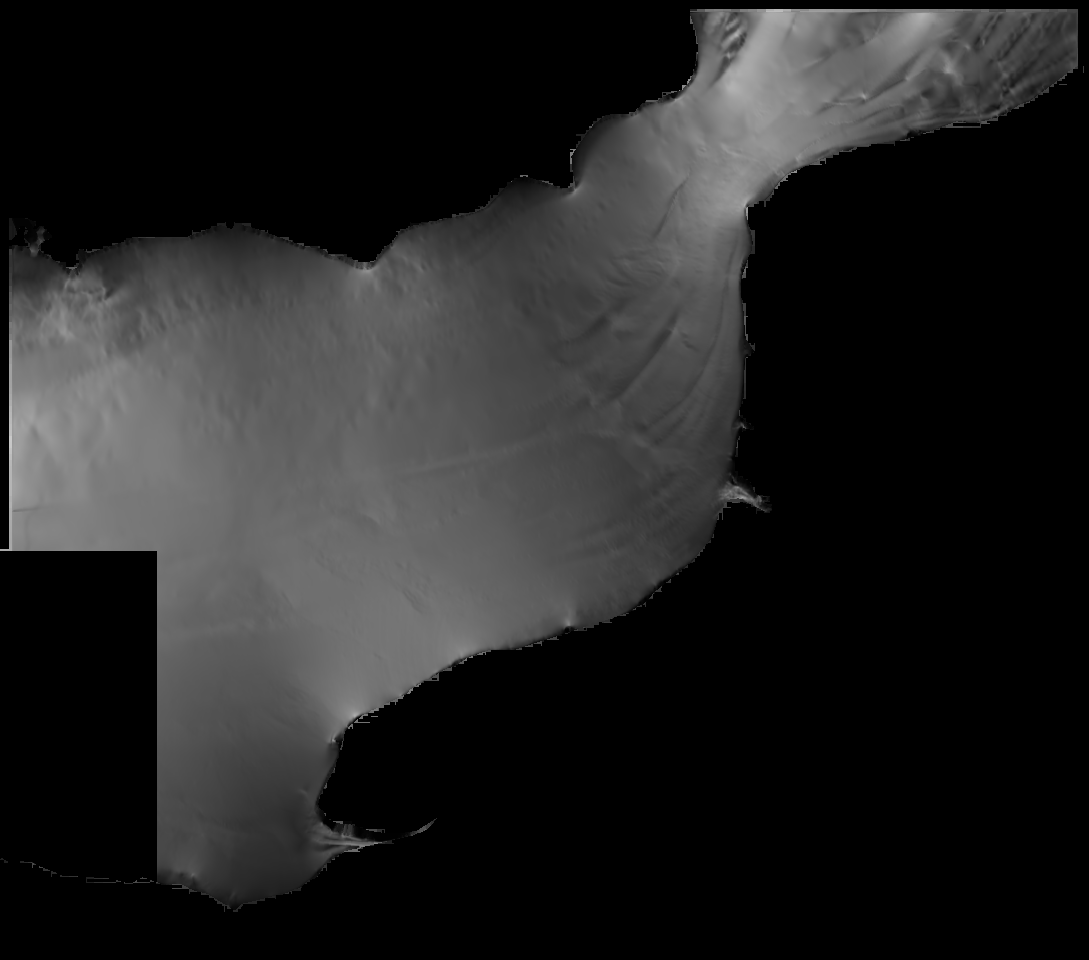
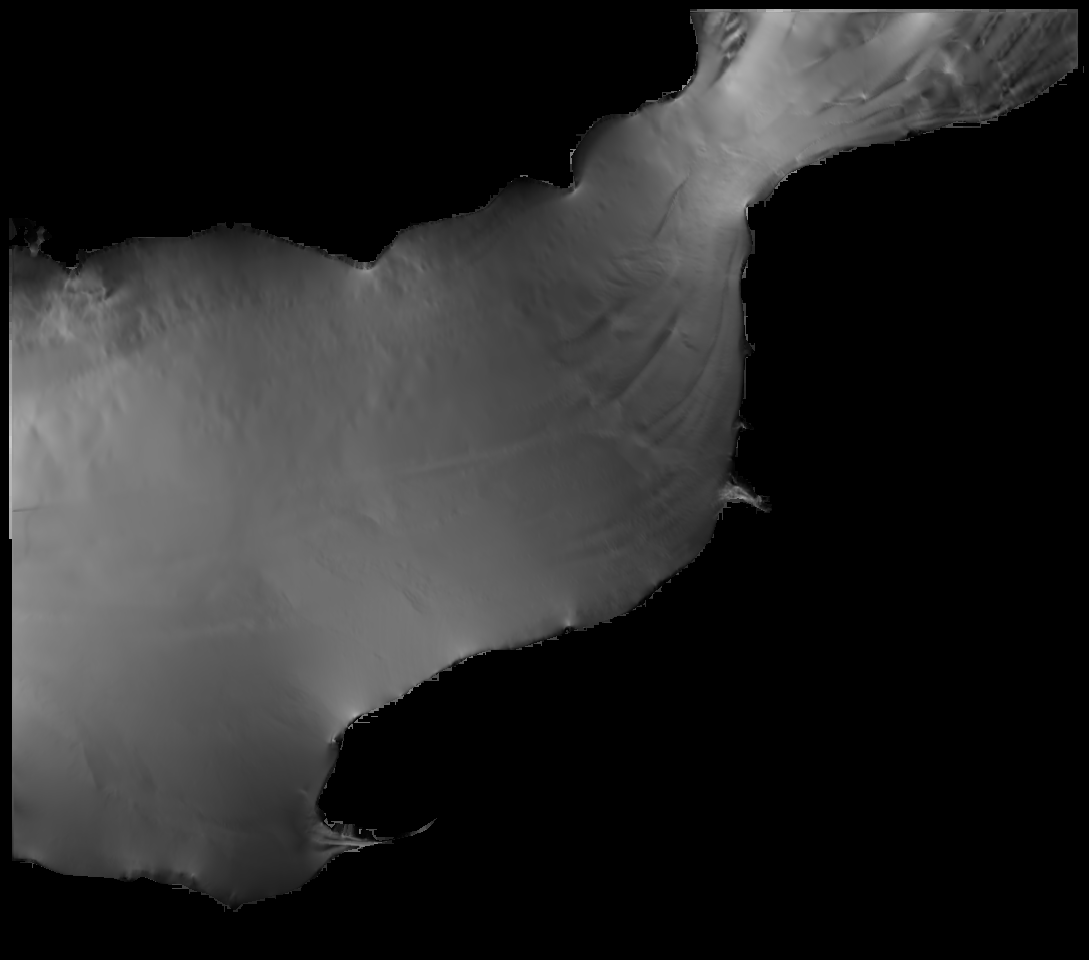
fix: retours de la recette J14, la carte montre exactement ce que le serveur sert, la Rance jusqu'au Châtelier, deux défauts web (#458)
Politique de service appliquée dans la mosaïque des rasters ; atlas sans cellules faibles limités à une maille ; fenêtre de marée alignée sur les rasters ; explain unknown_zone ; couloir de la Rance retracé ; option {n} et décimales de /comparer ; parcours J14 et guide de recette à jour.

Changed region(s): [[0.0, 0.5625, 0.1561, 0.9375]]

diff --git a/packages/web/src/compare/CompareTable.tsx b/packages/web/src/compare/CompareTable.tsx
@@ -8,6 +8,7 @@ import { useTimezone } from "../hooks/useTimezone";
 import { getLocale, t, tn, useLang, useT } from "../i18n";
 import { fmtNm } from "../utils/geo";
 import { formatHour } from "../utils/format";
+import { num1 } from "../plan/format";
 import type { Spot } from "../types";
 import {
   aggregateWaves,
@@ -89,7 +90,7 @@ function windAria(agg: WindAgg, res: Resolution): string {
 }
 
 function waveAria(agg: WaveAgg): string {
-  const hs = agg.hs.toFixed(1);
+  const hs = num1(agg.hs);
   const period = agg.period != null ? Math.round(agg.period) : "–";
   return agg.dir != null
     ? t("compare.cell.aria.waveFrom", { hs, dir: agg.dir, period })
@@ -157,7 +158,7 @@ function CellImpl({ wind, wave, withWave, res, width, dense }: CellProps) {
             <Band
               bg={`var(--ow-wave-${wl})`}
               ink={wave.hs < 1.0 ? "var(--ow-fg-0)" : "var(--ow-cell-ink)"}
-              main={wave.hs.toFixed(1)}
+              main={num1(wave.hs)}
               sub={wave.period != null ? `${Math.round(wave.period)}s` : undefined}
               height={add}
               dense={dense}

diff --git a/packages/web/src/plan/compare/TrackList.tsx b/packages/web/src/plan/compare/TrackList.tsx
@@ -94,8 +94,8 @@ function TrackRow({
         onClick={onSelect}
         disabled={!usable}
         aria-pressed={selected}
-        aria-label={`${name} · ${t("panel.tracks.row.select")}`}
-        title={t("panel.tracks.row.select")}
+        aria-label={`${name} · ${t("panel.tracks.row.select", { n: index + 1 })}`}
+        title={t("panel.tracks.row.select", { n: index + 1 })}
         onFocus={() => onPoint(true)}
         onBlur={() => onPoint(false)}
         className="flex-1 min-w-0 text-left flex flex-col gap-1 pl-4 pr-2 pt-2.5 pb-2.5 disabled:cursor-default"

diff --git a/packages/web/src/routes/TidalSourcesMap.tsx b/packages/web/src/routes/TidalSourcesMap.tsx
@@ -210,7 +210,7 @@ type ExplainAtlas = {
   label: string;
   rank: number;
   resolution_m: number;
-  decision: "used" | "dead_water" | "lower_priority" | "weak_tide" | "excluded" | "no_cell" | "outside_validity";
+  decision: "used" | "dead_water" | "unknown_zone" | "lower_priority" | "weak_tide" | "excluded" | "no_cell" | "outside_validity";
   max_tide_kt?: number;
   box?: string;
 };

diff --git a/scripts/build_tidal_world_raster.py b/scripts/build_tidal_world_raster.py
@@ -115,6 +115,7 @@ def atlas_grid(
     lon0 -= k * dlon
     rows = lat0 + dlat * np.arange(arr.shape[0])
     cols = lon0 + dlon * np.arange(arr.shape[1])
+    arr = _apply_serving_policy(meta, rows, cols, arr)
     vb = meta.get("validity_bbox")
     if vb:
         # The runtime refuses the atlas outside its validity box (ATLNE in
@@ -123,6 +124,39 @@ def atlas_grid(
         lon_ok = (cols >= vb[1]) & (cols <= vb[3])
         arr = np.where(lat_ok[:, None] & lon_ok[None, :], arr, np.nan)
     return meta, rows, cols, arr
+
+
+def _apply_serving_policy(meta: dict, rows: np.ndarray, cols: np.ndarray, arr: np.ndarray) -> np.ndarray:
+    """Blank the cells the runtime does not use, so they do not own their pixel.
+
+    The mosaic gives each pixel to the first atlas of the cascade that has a
+    cell there. A cell the server passes on (an open-sea atlas under
+    ``WEAK_TIDE_KT``, dead water of a coastal atlas, a box the policy cuts
+    out) must not hold it: the next atlas speaks there, or nothing, and the
+    map shows what a passage uses (2026-10-11 acceptance run: ATLNE's 0.08 kt
+    cells hid the Copernicus slope the server serves in the deep Bay of
+    Biscay).
+    """
+    from openwind_data.currents.serving_policy import (
+        COASTAL_MIN_RANK,
+        DEAD_CURRENT_M2_MS,
+        EXCLUDED_BOXES,
+        OPEN_SEA_MAX_RANK,
+        WEAK_TIDE_KT,
+    )
+
+    rank = int(meta.get("rank", 0))
+    out = arr.copy()
+    if rank <= OPEN_SEA_MAX_RANK:
+        out[~(out >= WEAK_TIDE_KT)] = np.nan
+    elif rank >= COASTAL_MIN_RANK:
+        # Dead water: an M2 current under 1 cm/s, about 0.02 kt at most.
+        out[~(out >= DEAD_CURRENT_M2_MS * MS_TO_KN)] = np.nan
+    for lat_min, lon_min, lat_max, lon_max in EXCLUDED_BOXES.get(meta.get("atlas", ""), ()):
+        lat_in = (rows >= lat_min) & (rows <= lat_max)
+        lon_in = (cols >= lon_min) & (cols <= lon_max)
+        out[lat_in[:, None] & lon_in[None, :]] = np.nan
+    return out
 
 
 def fill_pinholes(arr: np.ndarray) -> np.ndarray:

diff --git a/packages/data-adapters/src/openwind_data/currents/marc_atlas.py b/packages/data-adapters/src/openwind_data/currents/marc_atlas.py
@@ -200,9 +200,11 @@ def _read_tile(parquet_path: str) -> pl.DataFrame | None:
 
 # The window the weak-tide rule measures a cell's spring current over: 15
 # days hourly from a fixed start, so the answer never depends on the date of
-# the request. 2026-01-01 to 01-16 holds the spring tides of the 3 January
-# full moon. The map rasters use the same 15 days hourly.
-_WEAK_TIDE_WINDOW = [datetime(2026, 1, 1, tzinfo=UTC) + timedelta(hours=h) for h in range(15 * 24)]
+# the request. The same window as the map rasters
+# (``scripts/build_tidal_world_raster.py``), so a cell the map draws is a
+# cell the server serves: 2026-03-01 to 03-16, the equinoctial spring tides
+# of the 3 March full moon.
+_WEAK_TIDE_WINDOW = [datetime(2026, 3, 1, tzinfo=UTC) + timedelta(hours=h) for h in range(15 * 24)]
 
 
 @lru_cache(maxsize=65536)
@@ -565,7 +567,18 @@ class MarcAtlasRegistry:
     _MAX_CELL_DISTANCE_M = 5000.0  # 5 km, generous
 
     def _cell_threshold_m(self, atlas: AtlasMeta) -> float:
-        """How far a cell may sit from the query and still answer for it."""
+        """How far a cell may sit from the query and still answer for it.
+
+        An atlas built without its weak cells (``min_speed_kt`` in its
+        metadata: the Copernicus atlases dropped every cell under 0.2 kt) has
+        holes that mean "weak tide here", not gaps to bridge: within one cell
+        or nothing. With the generous 5 km to 5 cells, a point in the deep Bay
+        of Biscay borrowed a cell 7 to 15 km away on the slope (0.3 to
+        0.7 kt) while the map, drawn at the native pitch, showed no atlas
+        there (2026-10-11 acceptance run).
+        """
+        if atlas.min_speed_kt is not None:
+            return float(atlas.resolution_m)
         return max(self._MAX_CELL_DISTANCE_M, 5.0 * atlas.resolution_m)
 
     def _best_cell(

diff --git a/packages/api/src/openwind_api/routes/marine.py b/packages/api/src/openwind_api/routes/marine.py
@@ -390,7 +390,7 @@ def explain_point(services: Services, lat: float, lon: float) -> tuple[dict[str,
     ``model_edge``: dead water of a coastal atlas), ``shom``, ``atlas`` or
     ``global`` (the general current of the global model). ``atlases`` lists
     every atlas whose emprise holds the point, in cascade order, with its
-    decision. ``plan`` says what a passage leg here gets on top: a pass
+    decision (``unknown_zone`` for the one a documented zone overrides). ``plan`` says what a passage leg here gets on top: a pass
     within 3 km its source cannot see (the leg reads "unknown"), a strong
     tidal zone within 15 km its source is too coarse for (a warning).
     """
@@ -425,6 +425,11 @@ def explain_point(services: Services, lat: float, lon: float) -> tuple[dict[str,
     answer: dict[str, Any]
     source: str | None
     if zone is not None and "current" in zone.fields:
+        # The zone wins over every source: the atlas that would have answered
+        # says so, rather than reading "used" under an "unknown" answer.
+        for item in atlases:
+            if item["decision"] in ("used", "dead_water"):
+                item["decision"] = "unknown_zone"
         answer = {
             "kind": "unknown",
             "zone": zone.name,

diff --git a/packages/data-adapters/tests/currents/test_marc_atlas.py b/packages/data-adapters/tests/currents/test_marc_atlas.py
@@ -1111,3 +1111,15 @@ def test_the_mediterranean_atlas_stays_in_the_mediterranean(tmp_path: Path) -> N
             assert [(d.reason, d.box) for d in registry.declined_at(lat, lon)] == [
                 ("excluded", "atlantic")
             ]
+
+
+def test_an_atlas_built_without_weak_cells_reaches_one_cell_only(tmp_path: Path) -> None:
+    """Its holes mean "weak tide here": a point 3 km from the only cell of a
+    1.5 km atlas is not covered (the map draws nothing there either), a
+    point 1 km away is."""
+    meta = {**_meta("CMEMS_NWS", 0, 1500), "analysis": {"min_speed_kt": 0.2}}
+    _write_single_cell_atlas(tmp_path, "CMEMS_NWS", meta, 47.5, -9.0)
+    registry = MarcAtlasRegistry.from_directory(tmp_path)
+    assert registry.covers(47.509, -9.0) is not None  # 1 km north
+    assert registry.covers(47.527, -9.0) is None  # 3 km north
+    assert [d.reason for d in registry.declined_at(47.527, -9.0)] == ["weak_tide"]

diff --git a/packages/api/tests/test_api_marc_overlay.py b/packages/api/tests/test_api_marc_overlay.py
@@ -228,6 +228,7 @@ class TestExplain:
         body = _payload(await self._get("48.567", "-1.975"))
         assert body["answer"]["kind"] == "unknown" and "Rance" in body["answer"]["zone"]
         assert body["answer"]["reason"] == "managed"
+        assert all(a["decision"] not in ("used", "dead_water") for a in body["atlases"])
 
     async def test_a_coarse_source_beside_a_listed_pass_reads_unknown_on_a_plan(self) -> None:
         # Messina, global model answering: a leg here gets "unknown".

diff --git a/docs/qa/user-journeys.md b/docs/qa/user-journeys.md
@@ -27,7 +27,7 @@ Chaque création de spot déclenche des fetchs de prévisions multi-modèles et 
 ### J1. Premier lancement et géolocalisation
 - Précondition: stockage vierge (navigation privée, ou `pm clear` du navigateur sur émulateur; ne jamais `pm clear` en session partagée).
 - Étapes: ouvrir l'app. Accepter la demande de position.
-- Attendu: hint « Appui long pour placer votre premier spot » visible; après acceptation, la carte se centre sur la position (ou reste sur la France si position hors zone).
+- Attendu: hint « Touchez la carte pour la météo, appui long pour enregistrer un spot » visible; après acceptation, la carte se centre sur la position (ou reste sur la France si position hors zone).
 
 ### J2. Création de spot
 - Étapes: appui long (>1 s) sur une zone de mer.
@@ -45,7 +45,7 @@ Chaque création de spot déclenche des fetchs de prévisions multi-modèles et 
 ### J5. Planification d'itinéraire
 - Précondition: un spot existe (J2).
 - Étapes: entrer en mode planification (menu en haut à gauche, le bouton rond avec trois traits, puis « Planifier »). Tracer une route d'au moins 2 segments par appuis sur la carte. Choisir « Simuler ma route » puis « Calculer le passage ». Observer la carte et la tête du tiroir. Essayer un swipe vertical sur la poignée du tiroir.
-- Attendu: chaque waypoint s'ajoute avec segments visibles et longueurs. Une fois le calcul rendu, rien ne flotte sur la carte : la route entière est cadrée dans l'espace laissé entre l'en-tête et le tiroir (dernier marqueur compris), et les trois totaux Distance / Durée / Arrivée sont en tête du tiroir, sous la poignée, en gros caractères ; ils restent visibles quelle que soit la hauteur du tiroir. Le tiroir s'ouvre sur la rangée « Départ : … · bateau · Modifier », qui porte la poubelle (pastille rouge doux, « Nouveau plan ») à son extrémité ; un glissement vers le haut sur le contenu fait apparaître au-dessus les deux modes sur une ligne avec Recalculer en icône à droite. Modifier la route (déplacer ou supprimer un point) masque les totaux jusqu'au prochain Recalculer, dont l'icône passe en accent.
+- Attendu: chaque waypoint s'ajoute avec segments visibles et longueurs. Une fois le calcul rendu, rien ne flotte sur la carte : la route entière est cadrée dans l'espace laissé entre l'en-tête et le tiroir (dernier marqueur compris), et les trois totaux Distance / Durée / Arrivée sont en tête du tiroir, sous la poignée, en gros caractères ; ils restent visibles quelle que soit la hauteur du tiroir. Le tiroir s'ouvre sur la rangée « Départ : … · bateau · Modifier », qui porte la poubelle (pastille rouge doux, « Nouveau plan ») à son extrémité ; les deux modes et Recalculer sont sous « Modifier ». Modifier la route (déplacer ou supprimer un point) masque les totaux jusqu'au prochain Recalculer, dont l'icône passe en accent.
 - Étapes (gestes au doigt, depuis le 2026-09-12): sur une route tracée, (a) poser le doigt sur l'eau une seconde sans bouger puis lever; (b) tap bref sur l'eau; (c) tap bref (moins de 200 ms) sur la croix accolée à un waypoint du milieu, puis tap bref sur le disque d'un autre waypoint; (d) appui maintenu plus de 200 ms sur un waypoint, disque ou croix, jusqu'au léger grossissement, puis glisser, et une fois relâcher sans bouger; (e) poser le doigt sur un waypoint et bouger tout de suite; (f) tap à environ 10 px à côté d'un segment; (g) calculer, déplier un tronçon, taper sur le tronçon surligné; (h) saisir la poignée du tiroir en visant un peu trop haut.
 - Attendu: (a) aucun point ajouté; (b) un point ajouté; (c) la croix retire le waypoint et « Point N retiré · Annuler » s'affiche en haut de carte 5 s, Annuler le remet à sa place, le tap sur le disque ne fait rien; (d) le waypoint suit le doigt avec le pointillé, la carte ne bouge pas, la route passe en « à recalculer » au lâcher, sauf si le doigt n'a pas bougé; (e) la carte se déplace, le waypoint reste; (f) un point est inséré sur le trait, pas à côté, dans le bon tronçon, et jamais ajouté en fin de route; (g) idem, inséré dans ce tronçon; (h) le tiroir se redimensionne, aucun point n'apparaît. À la souris rien ne change: × au survol, glissé immédiat, clic sur le trait insère. Le double clic ou double tap sur l'eau n'ajoute qu'un point et ne zoome pas.
 - Étapes (pas d'un tronçon): calculer le passage, déplier un tronçon d'au moins 20 nm (deux pas ou plus). Observer la bande de pas colorée sous la ligne du tronçon, le bouton Moyenne / Détail et la carte compas + chiffres. Taper un pas, puis les flèches ‹ ›, puis Moyenne.
@@ -74,7 +74,7 @@ Prompt type: « Exécute les parcours J2, J3, J5 de docs/qa/user-journeys.md con
 
 ### J11. Langue de l'interface (/config)
 - Étapes: ouvrir /config, sélecteur « Langue » au-dessus des onglets, choisir English, puis Deutsch, Italiano et Español. Revenir sur / puis /plan, lancer un calcul. Ouvrir /methodologie et /confidentialite. Recharger. Effacer la clé `ow_lang` du localStorage et recharger avec un navigateur en fr-FR, puis en pt-PT.
-- Attendu: la page passe dans la langue choisie sans rechargement et `document.documentElement.lang` suit; une note sous le sélecteur signale que les avertissements du moteur de passage restent en français. Sur / et /plan, tables, panneau, dates (« Thu 3 Sept », « Do., 3. Sept. », « 08:00 ») et nombres (« 38.2 » en anglais, « 38,2 » ailleurs) suivent la langue; les avertissements calculés par le backend restent en français (limite connue). La page Confidentialité existe dans les cinq langues, la Méthodologie en français et en anglais (anglais servi aux lecteurs allemands, italiens et espagnols), chaque traduction s'ouvrant sur une ligne qui renvoie au texte français de référence. La langue choisie survit au rechargement. Sans choix mémorisé: interface en français avec un navigateur fr-FR, en anglais avec un navigateur pt-PT.
+- Attendu: la page passe dans la langue choisie sans rechargement et `document.documentElement.lang` suit; les avertissements du moteur de passage suivent la langue choisie (codes traduits depuis #414). Sur / et /plan, tables, panneau, dates (« Thu 3 Sept », « Do., 3. Sept. », « 08:00 ») et nombres (« 38.2 » en anglais, « 38,2 » ailleurs) suivent la langue; les avertissements calculés par le backend restent en français (limite connue). La page Confidentialité existe dans les cinq langues, la Méthodologie en français et en anglais (anglais servi aux lecteurs allemands, italiens et espagnols), chaque traduction s'ouvrant sur une ligne qui renvoie au texte français de référence. La langue choisie survit au rechargement. Sans choix mémorisé: interface en français avec un navigateur fr-FR, en anglais avec un navigateur pt-PT.
 
 ### J12. Navigation par le menu et comparaison des spots (/comparer)
 - Précondition: au moins deux spots enregistrés (J2), par exemple Marseille et Toulon.
@@ -84,7 +84,7 @@ Prompt type: « Exécute les parcours J2, J3, J5 de docs/qa/user-journeys.md con
 ### J13. Comparer ce trajet (/plan)
 - Précondition: un plan calculé (J5), de préférence celui déjà en cache (`ow_last_simulation_v1`) : recharger /plan le restaure sans appel réseau, et taper un créneau de la liste n'en fait pas non plus. Compter les POST `/api/v1/passage*` dans les requêtes réseau : seuls « Terminer et comparer », un changement de fenêtre (boutons ou « Appliquer »), « Recalcul de N itinéraires », Recalculer et le tout premier « D'autres départs » d'un plan sans balayage en font.
 - Étapes (découverte): sur un plan calculé, observer la carte « L'interface évolue » (sur la carte, ou juste au-dessus des deux boutons quand ils sont à l'écran). Taper « Y aller ». Recharger. Taper « Compris », ou ouvrir une porte.
-- Attendu: la carte annonce les deux comparaisons (départs et itinéraires) et dit que les deux boutons sont en bas des résultats ; « Y aller » fait défiler le tiroir jusqu'aux deux boutons et les met en lumière trois battements, la carte reste ; elle revient au rechargement tant qu'elle n'a pas été comprise ; « Compris » ou l'ouverture d'une porte la retire pour de bon (clé `ow_compare_hint_v1`) ; plus personne ne la voit après le 2026-10-19.
+- Attendu: la carte annonce les deux comparaisons (départs et itinéraires) et dit que les deux boutons sont en bas des résultats ; « Y aller » fait défiler le tiroir jusqu'aux deux boutons, les met en lumière trois battements et retire la carte pour de bon, comme « Compris » ou l'ouverture d'une porte (clé `ow_compare_hint_v1`) ; tant qu'aucun des trois n'a été touché, elle revient au rechargement ; plus personne ne la voit après le 2026-10-19.
 - Étapes (portes): faire défiler le tiroir jusqu'au bas des résultats. Observer le bloc « COMPARER CE TRAJET » et ses deux boutons « D'autres départs » et « Un autre itinéraire ».
 - Attendu: les deux portes sont en fin de contenu, après les tronçons et la ligne « Données fraîches au … » ; aucune bascule d'axe n'existe ailleurs (ni en tête, ni dans la comparaison) : on change d'axe en revenant au plan.
 - Étapes (axe « D'autres départs »): taper la porte. Observer la tête « ‹ Plan · D'autres départs · N créneaux », les boutons de fenêtre « Les prochaines 24 h / 48 h / 3 j / 7 j », « Toutes les 1 h / 3 h / 6 h », « Ajuster les dates » et « Trier Départ / Durée / Mer ». Sans changer la fenêtre (chaque changement recalcule), taper « Durée » puis « Départ ». Taper un créneau autre que celui du plan. Observer la carte, la tête du tiroir et l'adresse. Taper « ‹ Comparaison · N créneaux » en haut de carte. Puis retaper le même créneau et « Garder ».
@@ -94,12 +94,22 @@ Prompt type: « Exécute les parcours J2, J3, J5 de docs/qa/user-journeys.md con
 - Étapes (« ‹ Plan » et retour): dans chacun des deux axes, taper « ‹ Plan » AU CENTRE du bouton (pas à son bord bas). Dans le navigateur, vérifier `document.elementFromPoint` au centre du bouton. Rouvrir une comparaison, appuyer sur le bouton retour Android (ou Précédent du navigateur) ; recommencer avec une variante en cours de tracé ; recommencer après avoir tapé un créneau puis « ‹ Comparaison » ; enfin appuyer une fois de plus, plan seul à l'écran.
 - Attendu: le tap au centre ferme la comparaison dans les deux axes (l'élément au centre est le bouton, jamais une bande de la poignée du tiroir). Le retour ferme la comparaison sans quitter /plan et sans changer l'adresse ; avec une variante en cours, un premier retour abandonne la variante et reste dans la comparaison, le second ferme la comparaison ; après un créneau tapé puis « ‹ Comparaison », le retour ferme la comparaison et l'adresse garde le départ du créneau affiché (jamais celui d'avant) ; une fois le plan seul à l'écran, le retour suivant quitte /plan, sans étape morte entre les deux.
 
+### J14. Courants : ce que l'application utilise (/methodologie/courants, explorer, /plan)
+- Précondition: aucune ; la fiche de la carte appelle `/api/v1/marine/marc/explain` (seau de 120 appels par minute, gratuit côté Open-Meteo). Un seul calcul de passage pour toute la passe.
+- Étapes (carte de la méthodologie): ouvrir /methodologie/courants. Lire la légende. Cliquer sur la mer en Iroise (48,30 N 5,20 W), au large de la Bretagne (47 N 12 W), dans la Rance (48,567 N 1,975 W), dans la Seine (49,47 N 0,46 E), sur la côte cantabrique (43,6 N 2,3 W), près de Messine (38,24 N 15,60 E, à côté du marqueur de la passe).
+- Attendu: la légende s'intitule « Ce que l'application utilise ici » ; la mer du fond de carte est bleu clair partout où aucun raster vert n'est dessiné (vert : courant de marée seul ; bleu : courants généraux Copernicus ; gris : courant inconnu). Iroise : « Ici, l'application utilise », atlas 250 m `marc_finis_250m`, marée de vives-eaux d'environ 2 kt, les autres atlas et « SMOC · 8 km · dernier repli » écartés. Large : « Courants généraux du modèle global Copernicus », `openmeteo_smoc`, « Pourquoi » cite MARC ATLNE (marée d'environ 0,1 kt) et Copernicus NWS (cellule écartée à la construction). Rance et Seine : « Ici, l'application n'affiche aucun courant », badge gris, la zone nommée, le bassin ou le fleuve dessiné en gris. Côte cantabrique : Copernicus MED n'est jamais la source (s'il apparaît, « hors de la zone où son producteur l'a validé »). Messine : la ligne « Sur un plan » dit qu'un tronçon passant ici affiche « courant inconnu ».
+- Étapes (explorer): un spot dans la Rance (48,567 N 1,975 W), onglet Courants.
+- Attendu: valeurs vides, note « Courant inconnu ici (Rance, en amont de l'usine marémotrice)… » ; pas d'onglet Marées.
+- Étapes (plan, un seul calcul): rade de Saint-Malo (48,66 N 2,05 W), barrage (48,618 N 2,023 W), Saint-Suliac (48,567 N 1,975 W) ; Calculer le passage ; déplier un tronçon du bassin.
+- Attendu: une notice nomme la Rance ; la fiche du tronçon affiche « Courant : inconnu » ; totaux affichés, aucune erreur.
+
 ## Historique des bugs trouvés via ces parcours
 
 - 2026-07-11, J5: bandeau de plan non cliquable au toucher sur mobile; pire, le tap traversait vers la carte Leaflet et ajoutait un waypoint fantôme. Corrigé le 2026-08-01 (commit 8605393: pointer-events-auto + tap-to-expand). Note du 2026-08-02: une re-repro sur émulateur a produit un faux positif après le fix, cause probable: coordonnées de tap dérivées de bounds d'accessibilité périmés; en cas de doute, croiser avec un test navigateur local (elementFromPoint) avant de conclure.
 - 2026-08-02, J10: réordonnancement des modèles inopérant au toucher sur Firefox Android (rapport utilisateur, Fabrice): l'API HTML5 drag-and-drop n'y émet jamais dragstart au doigt. Corrigé en réécrivant le drag en Pointer Events avec poignée dédiée (touch-action: none) visible sur mobile.
 - 2026-09-12, J5: audit des gestes de la carte du plan (#389): un doigt posé sur la carte moins de 16 px en mouvement était un clic quelle que soit sa durée (Chrome retient touchmove sous son slop, la tolérance Leaflet ne joue pas), la zone du × couvrait le centre du marqueur au doigt et Chrome y aimantait chaque tap (suppression au moindre contact, glissé impossible), le surlignage du tronçon déplié interceptait les clics et ajoutait un point en fin de route, l'insertion sur une route calculée à plusieurs pas par tronçon ajoutait aussi en fin de route. Corrigé par une garde de tap (pointeur parti dans la carte, un seul doigt, moins de 300 ms et 10 px), au doigt l'appui de plus de 200 ms pour déplacer et une croix accolée au disque dont la zone de tap ne s'étend que vers l'extérieur, pour retirer avec annulation, une ligne de hit invisible par tronçon avec projection sur le trait, et le surlignage rendu inerte. iPhone non couvert par l'audit (WebKit indisponible sur la machine de test): revérifier (a), (c), (d) et (h) sur iOS.
 - 2026-09-18, J13: sur mobile, le bouton « ‹ Plan » de la comparaison était recouvert par la bande invisible de 16 px qui prolonge la poignée du tiroir vers le bas (ajoutée en #410 pour couvrir le bandeau des totaux) : sans bandeau, elle tombait sur la première ligne du contenu, bouton mesuré à 419,75-435,75 px pour une bande à 414-430 px sur 390 × 844, `elementFromPoint` au centre renvoyait la bande et seuls les derniers pixels du bouton répondaient, sur les deux axes. Corrigé en ne rendant la bande basse qu'avec un bandeau sous la poignée. Même passe : le retour laissait une entrée d'historique morte derrière chaque comparaison fermée par un créneau tapé (l'entrée de la couche recevait la nouvelle adresse avec un `replaceState(null)` qui effaçait son jeton), d'où un retour sans effet visible qui ramenait l'adresse au départ d'avant le créneau pendant que le panneau montrait le créneau, et `history.state` null au montage d'une comparaison restaurée du cache (la réécriture de l'adresse venait après l'entrée de la couche). Corrigé en écrivant l'adresse du montage avant les couches, en gardant le jeton d'une couche ouverte à travers une réécriture, et en remettant l'adresse sur le plan affiché après chaque retour qui reste sur /plan.
+- 2026-10-11, J14 (recette avant la mise en production du chantier des courants, sous-agent sur dev.ohmywind.fr) : (1) dans le golfe de Gascogne profond, la carte montrait les courants généraux alors que le serveur servait Copernicus IBI ou NWS ; la mosaïque des rasters donnait le pixel à ATLNE (rang 1) même là où sa marée, sous 0,2 kt, était écartée par le serveur, et les atlas construits sans leurs cellules faibles empruntaient une cellule jusqu'à 7 à 15 km. Corrigé en appliquant la politique de service dans la mosaïque (cellule écartée = pixel libre), en limitant ces atlas à une maille, et en calculant la marée de vives-eaux du serveur sur la même fenêtre que les rasters. (2) La zone de la Rance s'arrêtait au pont de la N176 (couloir du fleuve tracé trop à l'ouest), retracée d'après les points relevés sur l'eau. (3) « Choisir l'option {n} pour le plan » dans l'aria-label et l'infobulle des itinéraires comparés, et « 1.4 » au lieu de « 1,4 » sur /comparer en français. Même passe : attendus de J1, J5, J11 et J13 remis à jour.
 
 ## Pièges d'outillage (Chrome DevTools MCP)
 
